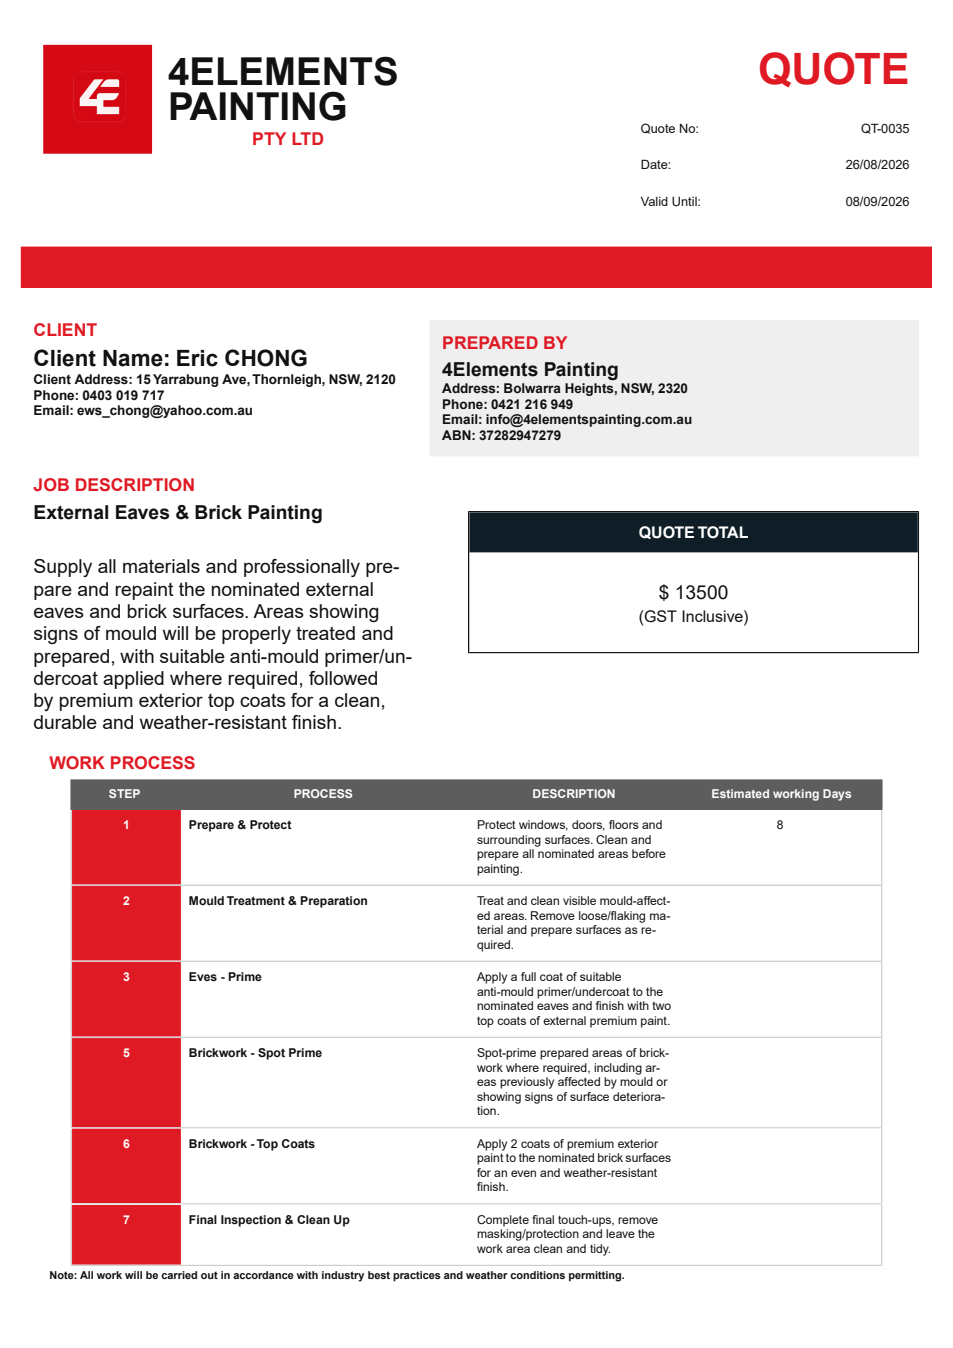
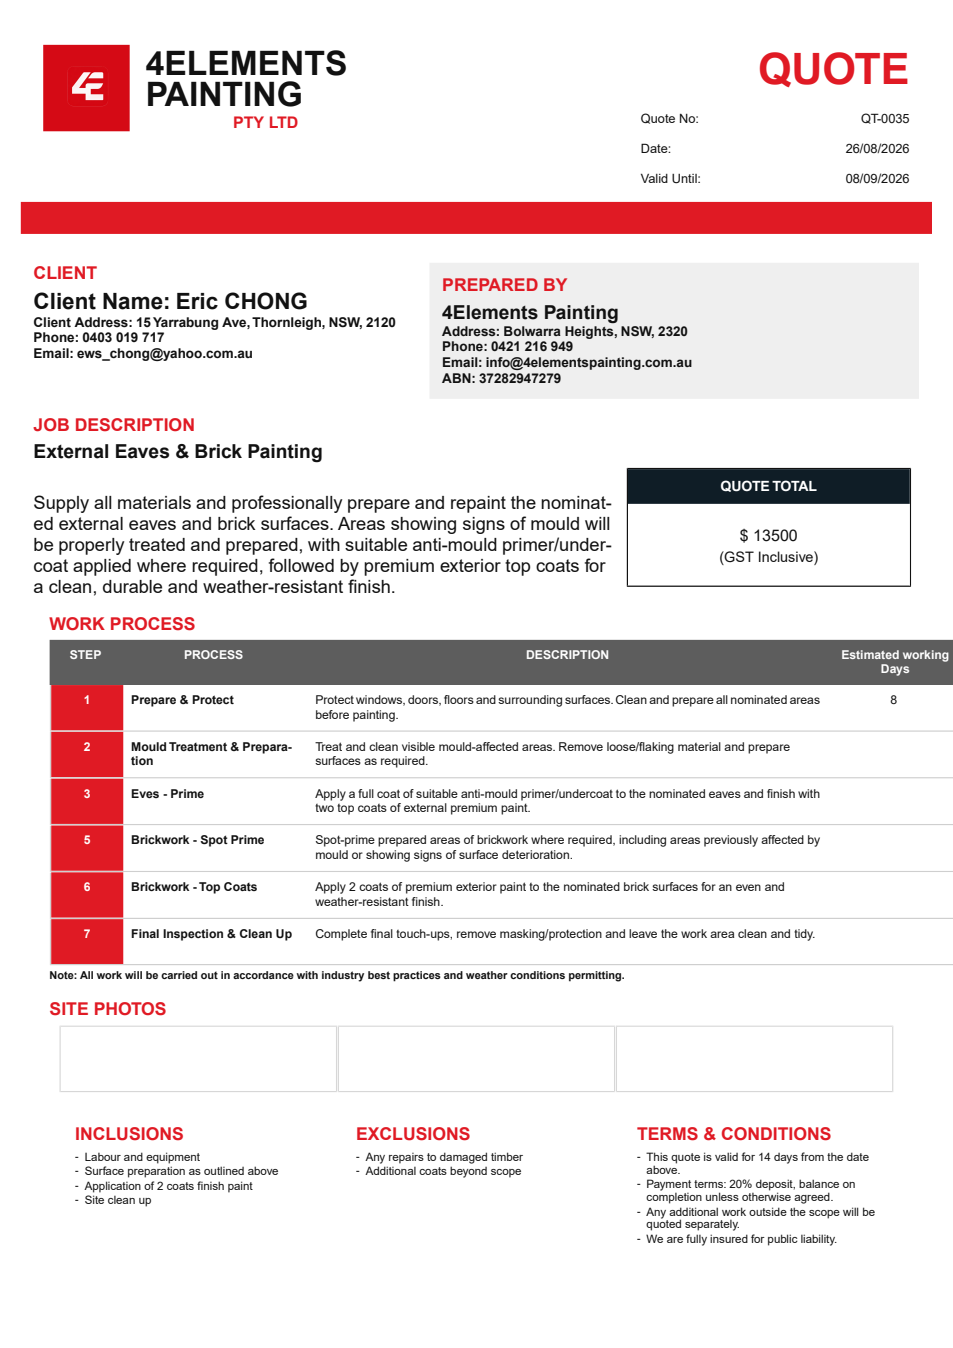
1

Changed region(s): [[0.0, 0.0312, 1.0, 0.9659]]

diff --git a/components/quote-pdf-document.tsx b/components/quote-pdf-document.tsx
@@ -28,7 +28,7 @@ const styles = StyleSheet.create({
     backgroundColor: "#ffffff",
   },
   header: {
-    minHeight: 88,
+    minHeight: 82,
     flexDirection: "row",
     justifyContent: "space-between",
     alignItems: "flex-start",
@@ -82,11 +82,11 @@ const styles = StyleSheet.create({
   },
   redBar: {
     height: 20,
-    marginBottom: 20,
+    marginBottom: 18,
     backgroundColor: red,
   },
   section: {
-    marginBottom: 12,
+    marginBottom: 10,
   },
   sectionTitle: {
     fontSize: 11,
@@ -100,9 +100,9 @@ const styles = StyleSheet.create({
     lineHeight: 1.16,
   },
   bodyBlock: {
-    fontSize: 12,
+    fontSize: 11.4,
     lineHeight: 1.16,
-    marginTop: 15,
+    marginTop: 13,
   },
   bold: {
     fontWeight: 700,
@@ -115,13 +115,22 @@ const styles = StyleSheet.create({
   column: {
     flex: 1,
   },
+  bottomColumns: {
+    flexDirection: "row",
+    justifyContent: "space-between",
+    paddingHorizontal: 34,
+  },
+  bottomColumn: {
+    width: "30%",
+  },
   preparedPanel: {
     width: 306,
     padding: 8,
     backgroundColor: "#efefef",
   },
   jobSection: {
-    flex: 1,
+    width: 370,
+    paddingLeft: 8,
   },
   jobTitle: {
     fontSize: 12,
@@ -129,16 +138,16 @@ const styles = StyleSheet.create({
     marginBottom: 6,
   },
   moneyBlock: {
-    alignSelf: "flex-start",
-    width: 282,
-    marginTop: 22,
-    marginLeft: 18,
+    position: "absolute",
+    top: 292,
+    right: 26,
+    width: 178,
     borderWidth: 1,
     borderColor: "#111111",
   },
   moneyTitle: {
-    paddingVertical: 7,
-    fontSize: 10,
+    paddingVertical: 6,
+    fontSize: 8.8,
     fontWeight: 700,
     textAlign: "center",
     textTransform: "uppercase",
@@ -146,13 +155,13 @@ const styles = StyleSheet.create({
     backgroundColor: "#0f1d26",
   },
   moneyValue: {
-    paddingTop: 18,
-    fontSize: 12,
+    paddingTop: 14,
+    fontSize: 10,
     textAlign: "center",
   },
   taxText: {
-    paddingBottom: 17,
-    fontSize: 10,
+    paddingBottom: 13,
+    fontSize: 9,
     textAlign: "center",
     marginTop: 3,
   },
@@ -209,7 +218,7 @@ const styles = StyleSheet.create({
     fontWeight: 700,
   },
   photoGrid: {
-    minHeight: 150,
+    minHeight: 52,
     flexDirection: "row",
     gap: 0,
     paddingHorizontal: 24,
@@ -225,7 +234,7 @@ const styles = StyleSheet.create({
   },
   photoPlaceholder: {
     width: "33.33%",
-    height: 142,
+    height: 42,
     borderWidth: 1,
     borderColor: "#d7d7d7",
   },
@@ -241,7 +250,11 @@ const styles = StyleSheet.create({
   },
   bulletMark: {
     width: 6,
-    fontSize: 7,
+    fontSize: 6.6,
+  },
+  listText: {
+    fontSize: 7.2,
+    lineHeight: 1.12,
   },
 });
 
@@ -310,18 +323,17 @@ export function QuotePdfDocument({ quote }: QuotePdfDocumentProps) {
           </View>
         </View>
 
-        <View style={[styles.section, styles.twoColumn, { paddingHorizontal: 8, alignItems: "flex-start" }]}>
-          <View style={styles.jobSection}>
-            <Text style={styles.sectionTitle}>Job Description</Text>
-            <Text style={styles.jobTitle}>{quote.jobTitle || "Painting Works"}</Text>
-            {quote.scope ? <Text style={styles.bodyBlock}>{quote.scope}</Text> : null}
-          </View>
-          <MoneyBlock
-            documentType={quote.documentType}
-            taxLabel={quote.taxLabel}
-            total={totals.grandTotal}
-          />
+        <View style={[styles.section, styles.jobSection]}>
+          <Text style={styles.sectionTitle}>Job Description</Text>
+          <Text style={styles.jobTitle}>{quote.jobTitle || "Painting Works"}</Text>
+          {quote.scope ? <Text style={styles.bodyBlock}>{quote.scope}</Text> : null}
         </View>
+
+        <MoneyBlock
+          documentType={quote.documentType}
+          taxLabel={quote.taxLabel}
+          total={totals.grandTotal}
+        />
 
         {isQuote ? (
           <WorkProcess quote={quote} />
@@ -336,12 +348,12 @@ export function QuotePdfDocument({ quote }: QuotePdfDocumentProps) {
 
         {!isQuote ? <PaymentDetails quote={quote} /> : null}
 
-        <View style={[styles.section, styles.twoColumn, { paddingHorizontal: 34 }]}>
-          <ListSection items={quote.inclusions} title="Inclusions" />
+        <View style={[styles.section, styles.bottomColumns]}>
+          <ListSection column items={quote.inclusions} title="Inclusions" />
           {quote.exclusions.length > 0 ? (
-            <ListSection items={quote.exclusions} title="Exclusions" />
+            <ListSection column items={quote.exclusions} title="Exclusions" />
           ) : null}
-          <ListSection items={quote.terms} title="Terms & Conditions" />
+          <ListSection column items={quote.terms} title="Terms & Conditions" />
         </View>
 
         {!isQuote ? (
@@ -489,16 +501,24 @@ function PaymentDetails({ quote }: { quote: Quote }) {
   );
 }
 
-function ListSection({ items, title }: { items: string[]; title: string }) {
+function ListSection({
+  column = false,
+  items,
+  title,
+}: {
+  column?: boolean;
+  items: string[];
+  title: string;
+}) {
   if (items.length === 0) return null;
 
   return (
-    <View style={[styles.section, styles.column]}>
+    <View style={column ? styles.bottomColumn : [styles.section, styles.column]}>
       <Text style={styles.sectionTitle}>{title}</Text>
       {items.map((item, index) => (
         <View key={`${item}-${index}`} style={styles.bulletRow}>
           <Text style={styles.bulletMark}>-</Text>
-          <Text style={[styles.bodyText, styles.descriptionCell]}>{item}</Text>
+          <Text style={[styles.bodyText, styles.listText, styles.descriptionCell]}>{item}</Text>
         </View>
       ))}
     </View>

diff --git a/app/api/quote/pdf/route.ts b/app/api/quote/pdf/route.ts
@@ -25,6 +25,10 @@ export async function POST(request: Request) {
 }
 
 async function tryMarkPdfGenerated(quoteNumber: string) {
+  if (!process.env.SUPABASE_URL || !process.env.SUPABASE_SERVICE_ROLE_KEY) {
+    return;
+  }
+
   try {
     await markPdfGenerated(quoteNumber);
   } catch (error) {
